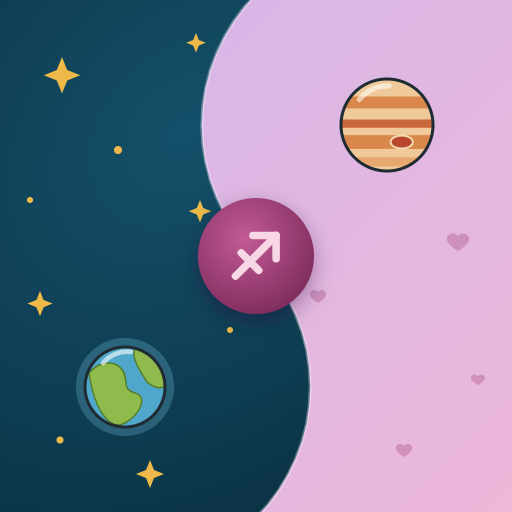
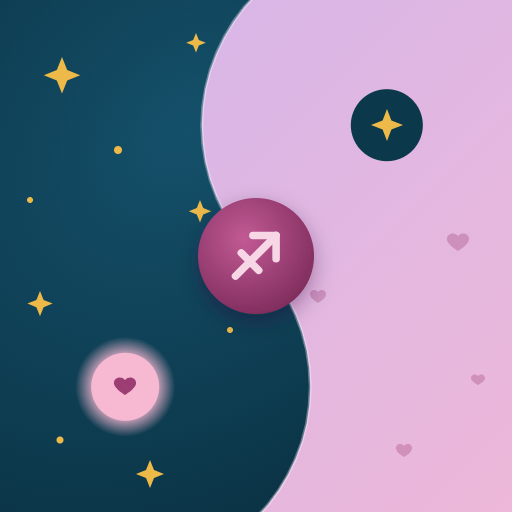
0.1.93: іконка — інь-янь із точками (без планет)

Changed region(s): [[0.6562, 0.125, 0.875, 0.3438], [0.125, 0.6562, 0.3438, 0.875]]

diff --git a/js/version.js b/js/version.js
@@ -1,7 +1,8 @@
 // Версія і «Что нового»: при кожному випуску — новий рядок угорі й новий VERSION
-export const VERSION = '0.1.92';
+export const VERSION = '0.1.93';
 
 export const NEWS = [
+  ['0.1.93', 'Иконка — чистый инь-янь двух половин: ночь со звёздами и пудра с сердечками, в каждой — точка другой, Стрелец посередине.'],
   ['0.1.92', 'Новая иконка: инь-янь из двух половин — ночь со звёздами и Землёй, пудра с сердечками и Юпитером, Стрелец посередине (на главном экране появится после переустановки ярлыка). Все ленты в приложении одинаковые — со стрелками по краям. Колесо компактнее, питомец над ним и крупнее.'],
   ['0.1.91', 'Колесо теперь крутим вдвоём: один зовёт «Крутим?» и отмечает темы, второй отмечает свои и жмёт «Готов» — в колесо попадает общее, и у обоих выпадает одно и то же. Раз в день, по-честному. В «К дате» стрелки в обе стороны, фото — справа от названия. Хотелки больше не мигают после перехода из чата.'],
   ['0.1.90', 'Питомец на полке конвертов говорит коротко: «Открой, когда…».'],
